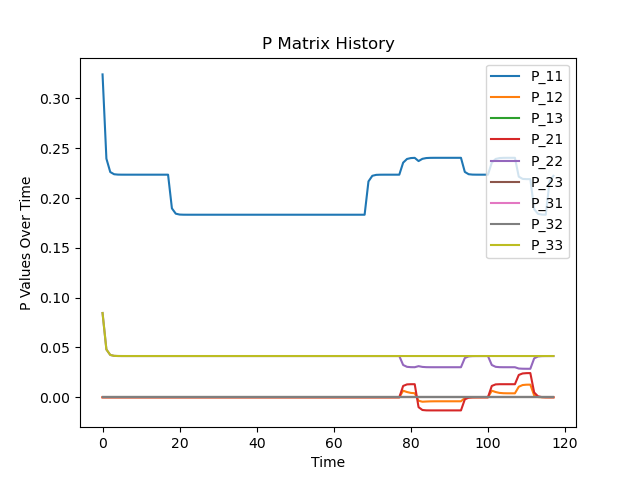
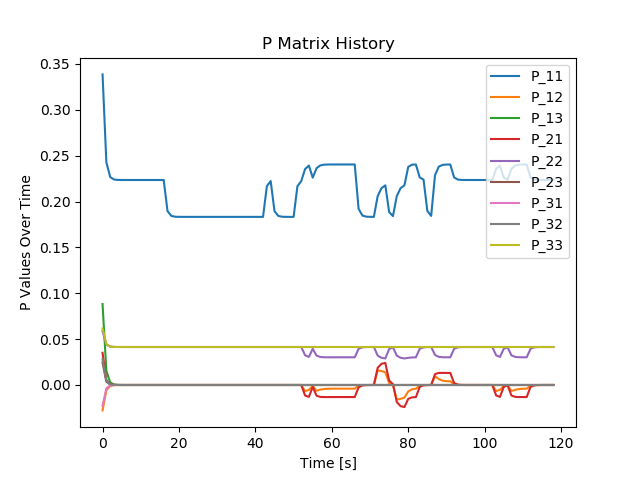
added plotting code

diff --git a/Python_Code/EKF_Corr.py b/Python_Code/EKF_Corr.py
@@ -1,4 +1,5 @@
 import warnings
+#to ignore panda warnings
 warnings.simplefilter(action='ignore', category=Warning)
 import pandas as pd
 import numpy as np  
@@ -6,6 +7,7 @@ from var_store import var_store
 import math as m
 from EKF_pred import EKF_pred 
 import matplotlib.pyplot as plt
+import os
 
 class EKF_corr(EKF_pred):
 	
@@ -58,7 +60,6 @@ def read_csv(fil_path):
 
 def compute_errors(predictions,targets):
 	return np.sqrt((predictions-targets)**2)
-
 def plot_state(state_hist,Yk):
 	#Plot state
 	state_hist_1 = np.transpose(np.array(state_hist)[:,0,:]).flatten()
@@ -67,36 +68,30 @@ def plot_state(state_hist,Yk):
 	Yk_hist_1 = Yk[:,0]
 	Yk_hist_2 = Yk[:,1]
 	Yk_hist_3 = Yk[:,2]
-
 	time = np.array([i for i in range(len(state_hist))])
 	rmse_v = compute_errors(state_hist_1,Yk_hist_1)
 	rmse_theta = compute_errors(state_hist_2,Yk_hist_2)
 	rmse_w = compute_errors(state_hist_3,Yk_hist_3)
-
 	var_list = ['v','theta','w']
 	for val in var_list:
 		if val == 'v':
 			plt.plot(time,state_hist_1,label = 'V EKF')
 			plt.plot(time,Yk_hist_1,label = 'V Groundtruth')
+			plt.ylabel('V [m/s]')
 			
-			#get error change on seperate plot
-
 		elif val == 'theta':
 			plt.plot(time,state_hist_2,label = 'Theta EKF')
 			plt.plot(time,Yk_hist_2,label = 'Theta Groundtruth')
+			plt.ylabel('Theta [rad]')
 
-			#get error change on seperate plot
 		else:
 			plt.plot(time,state_hist_3,label = 'W')
 			plt.plot(time,Yk_hist_3,label = 'W Groundtruth')
-			#get error change on seperate plot
+			plt.ylabel('W [rad/s]')
 
 		plt.title('State History')
-		plt.xlabel('Time')
-		# Set the y axis label of the current axis.
-		plt.ylabel('State Values Over Time')
+		plt.xlabel('Time [s]')	
 		plt.legend()
-		#plt.show()
 		fn = './plots/' + val + '_' + 'GTvsEKF'
 		plt.savefig(fn)
 		plt.clf()
@@ -104,20 +99,20 @@ def plot_state(state_hist,Yk):
 	#get error change on
 	for val in var_list:
 		if val == 'v':
-			print(len(time),len(rmse_v))
 			plt.plot(time,rmse_v,label = 'RMSE V', color="blue")
+			plt.ylabel('Error Values Over Time [m/s]')
 		elif val == 'theta':
 			plt.plot(time,rmse_theta,label = 'RMSE Theta', color="green")	
+			plt.ylabel('Error Values Over Time [rad]')
 		else:
 			plt.plot(time,rmse_w,label = 'RMSE W', color="red")
+			plt.ylabel('Error Values Over Time [rad/s]')
 		
 
 		plt.title('Error History')
-		plt.xlabel('Time')
-		# Set the y axis label of the current axis.
+		plt.xlabel('Time [s]')
 		plt.ylabel('Error Values Over Time')
 		plt.legend()
-		#plt.show()
 		fn = './plots/' + val + '_' + 'RMSE'
 		plt.savefig(fn)
 		plt.clf()
@@ -148,7 +143,7 @@ def plot_P(P):
 	plt.plot(time,P_32,label = 'P_32')
 	plt.plot(time,P_33,label = 'P_33')
 	plt.title('P Matrix History')
-	plt.xlabel('Time')
+	plt.xlabel('Time [s]')
 	# Set the y axis label of the current axis.
 	plt.ylabel('P Values Over Time')
 	plt.legend()
@@ -163,7 +158,7 @@ def main_loop(Yk,Uk):
 	K_hist = []
 	Xk_pred_corr_k_m1 = np.array([Yk[0]]).transpose()
 	state_hist.append(Xk_pred_corr_k_m1)
-	Pk_m1 = np.eye(3)
+	Pk_m1 = np.random.rand(3,3)
 	for i in range(1,len(Uk)):
 		#set carla data
 		EKF_corr.dt()
@@ -194,18 +189,19 @@ def main_loop(Yk,Uk):
 
 if __name__ == '__main__':
 	EKF_corr = EKF_corr()
-	path = r"..\cases\MVPcasefinalwithnoise.csv"
-	Uk,Yk = read_csv(path)
-	EKF_state_hist,Pk_hist = main_loop(Yk,Uk)
-	#get true states
-	plot_P(Pk_hist)
+	#path where all the cases are stored
+	case_path = r"C:\Users\shawn paul\Desktop\MTE-546-project\cases"
+	onlyfiles = [f for f in os.listdir(case_path) if os.path.isfile(os.path.join(case_path, f))]
+	noisy_paths = [os.path.join(case_path,n) for n in onlyfiles if "casefinalwithnoise" in n]
+	real_paths = [os.path.join(case_path,p) for p in onlyfiles if "casefinal" in p if "withnoise" not in p]
 
-	path = r"..\cases\MVPcasefinal.csv"
-	Uk_real,Yk_real = read_csv(path)
-	plot_state(EKF_state_hist,Yk_real)
-
-	
-	
-
-
-
+	#iterate oevr all possible cases
+	for (path,path_2) in zip(noisy_paths,real_paths):
+		case_name = os.path.basename(path)
+		print(case_name)
+		Uk,Yk = read_csv(path)
+		EKF_state_hist,Pk_hist = main_loop(Yk,Uk)
+		#get true states
+		plot_P(Pk_hist)
+		Uk_real,Yk_real = read_csv(path_2)
+		plot_state(EKF_state_hist,Yk_real)
